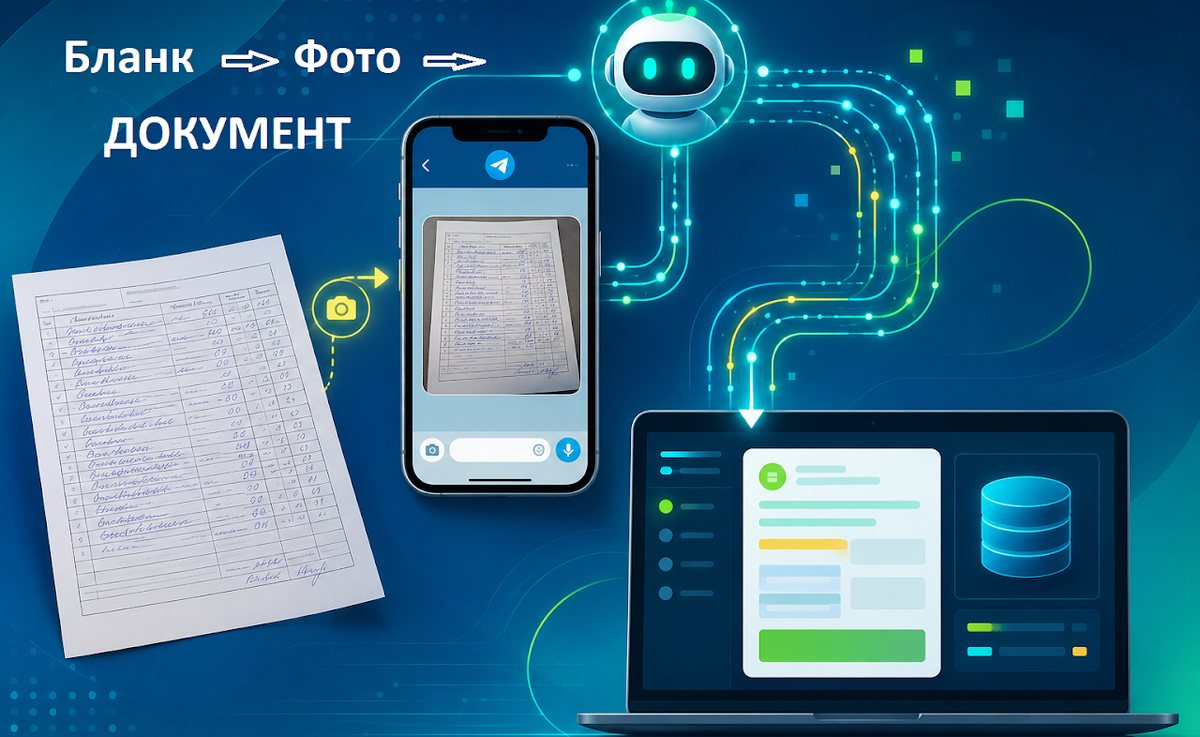
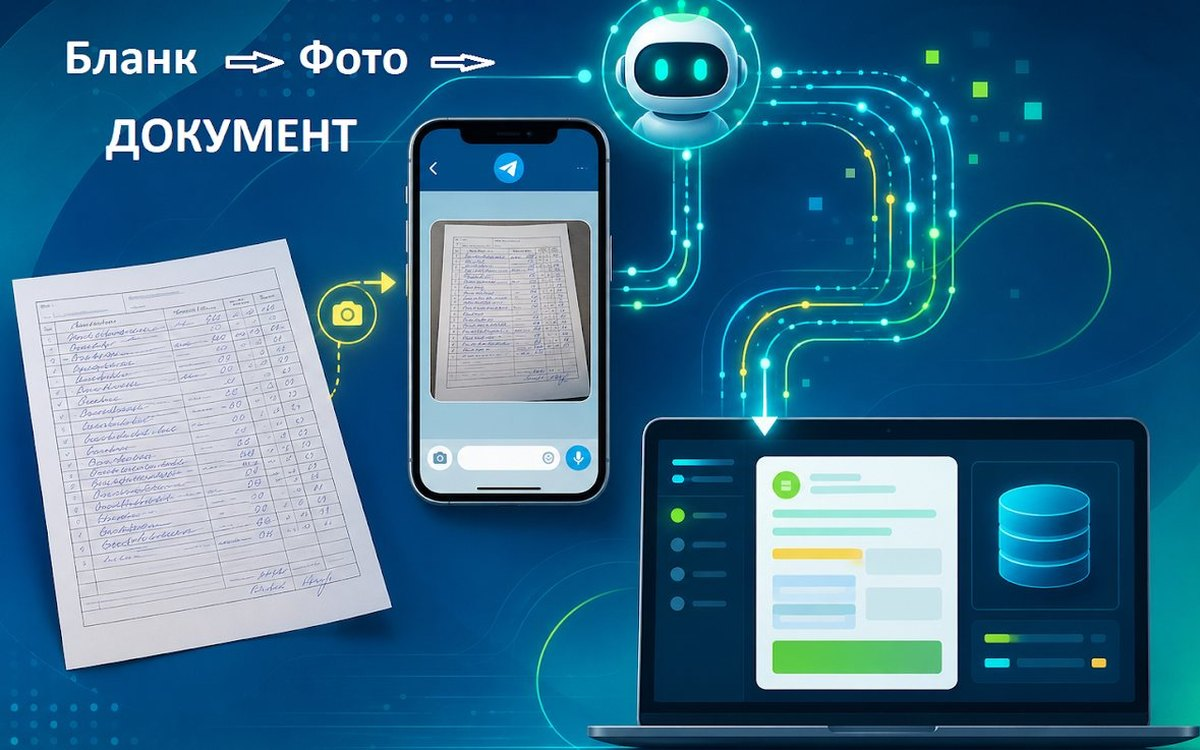
Кейси: один шлях у кейс і однакові ілюстрації 16:10
На сторінці кейсів було два конкуруючі переходи: кнопка «Повна історія
кейсу» в кінці текстової колонки і розкривачка «Детальніше про кейс» під
усією сіткою, на повну ширину. Під розкривачкою не було нічого свого —
усе це вже є на сторінках кейсів, тільки докладніше. До того ж summary
і .btn--sm мають однакову пігулкову форму, тож око читало їх як дві
рівнозначні кнопки; самі розкривачки були в кейсах 01, 02, 04, 05 і не
було в 03, а ховали то один абзац, то два екрани тексту.

Текст:
- прибрано всі details.more зі сторінки, разом із мертвими після цього
  правилами .case > details.more і .more--cols
- усі п'ять анонсів за одним каркасом: задача двома реченнями
  (.case__lede), три рядки результату (.case__gains), підсумковий факт
  (.case__result) і одна кнопка «Читати кейс»
- заголовки кейсів такі самі, як на плитках головної: зник різнобій
  «Функціонал "..."» і три різні назви одного кейсу по сайту
- факти взято з розділів «Що це дало компанії» на сторінках кейсів;
  цифра стоїть там, де вона справді є — понад 300 актів на місяць у 01

Ілюстрації:
- усі чотири приведені до 1200x750; .case__media тримає aspect-ratio 16/10
  з object-fit: cover — зараз це нічого не обрізає, лише страхує майбутні
  картинки; слайдер кейсу 05 із правила виключений
- 01 (1200x800) — зрізано по 25 px згори і знизу
- 03 (1200x737) — знято 21 px справа, де порожнє поле
- 04 (1200x957) — заголовок і щит не різали, а доточили поля з боків
[…]

diff --git a/cases.html b/cases.html
@@ -103,40 +103,24 @@
           <figure class="case__media">
             <picture>
               <source srcset="assets/img/case-1.webp" type="image/webp">
-              <img src="assets/img/case-1.jpg" width="1200" height="800" alt="VLASPRO AI-агент: акт звірки автоматично — без дзвінків, без очікування, без участі персоналу.">
+              <img src="assets/img/case-1.jpg" width="1200" height="750" alt="VLASPRO AI-агент: акт звірки автоматично — без дзвінків, без очікування, без участі персоналу.">
             </picture>
           </figure>
           <div class="case__body">
             <p class="case__badge">Кейс 01</p>
-            <h2>Функціонал "Акт звірки автоматично в Telegram"</h2>
-            <p>Клієнт звернувся із типовою задачею: бухгалтерія регулярно отримує запити від контрагентів на акти
-              звірки. Щоразу дзвінок або лист, ручне формування документа, надсилання. Десятки разів на тиждень,
-              більше 300 актів на місяць.</p>
-            <p>Ми автоматизували цей процес повністю, створивши Telegram-бота на базі власного програмного рішення,
-              який дозволяє клієнтам нашої компанії самостійно формувати та отримувати “Акти звірки”.</p>
-            <p><a class="btn btn--sm" href="/akt-zvirky-telegram">Повна історія кейсу</a></p>
-
+            <h2>Акт звірки автоматично в Telegram</h2>
+            <p class="case__lede">Бухгалтерія десятки разів на тиждень формувала акти звірки руками: на кожен
+              запит контрагента — дзвінок або лист, пошук, документ, надсилання. Telegram-бот, підключений
+              до облікової бази, дає контрагенту зробити це самому: обрати період і одразу отримати PDF.</p>
+            <ul class="case__gains">
+              <li><b>Бухгалтерія.</b> Операція зникла з робочого дня — разом із перериваннями на неї.</li>
+              <li><b>Контрагент.</b> Акт доступний цілодобово й без посередника, зокрема у вихідні.</li>
+              <li><b>Документи.</b> Немає помилок ручного введення: не той період чи не той контрагент.</li>
+            </ul>
+            <p class="case__result"><b>Понад 300</b> ручних формувань акта на місяць більше не відбуваються взагалі.</p>
+            <p><a class="btn" href="/akt-zvirky-telegram">Читати кейс</a></p>
           </div>
         </div>
-
-        <details class="more more--cols">
-          <summary>Детальніше про кейс</summary>
-          <div class="more__body">
-            <p>Цей бот ми інтегрували з обліковою системою компанії, і тепер контрагенти нашої фірми самостійно
-              обирають потрібний період та миттєво отримують акти звірки у PDF-форматі. Без дзвінків.
-              Без очікування. Без участі персоналу.</p>
-            <p>Результат для компанії:</p>
-            <ul>
-              <li>Економія часу бухгалтера та зменшення кількості ручних операцій;</li>
-              <li>Підвищення рівня сервісу для клієнтів;</li>
-              <li>Зниження людського фактору та помилок при формуванні документів;</li>
-              <li>Зручність та швидкість документообігу;</li>
-              <li>Доступність 24/7</li>
-            </ul>
-            <p>Цей кейс - приклад того, як <strong>AI-агенти можуть трансформувати бізнес-процеси
-              підприємства</strong>, зробити їх більш ефективними та клієнтоорієнтованими.</p>
-          </div>
-        </details>
 
         <!-- ---- демо-бот: на всю ширину, під колонками кейсу ---- -->
         <div class="trybot trybot--wide">
@@ -166,33 +150,24 @@
           <figure class="case__media">
             <picture>
               <source srcset="assets/img/case-2.webp" type="image/webp">
-              <img src="assets/img/case-2.jpg" width="1021" height="1024" alt="Погодження відповідальними особами: заявка на платіж у Telegram з кнопками «Погодити» або «Відхилити».">
+              <img src="assets/img/case-2.jpg" width="1200" height="750" loading="lazy" alt="Погодження відповідальними особами: заявка на платіж у Telegram з кнопками «Погодити» або «Відхилити».">
             </picture>
           </figure>
           <div class="case__body">
             <p class="case__badge">Кейс 02</p>
-            <h2>Функціонал "Погодження відповідальними особами" за допомогою Telegram-бота</h2>
-            <p>У сучасному бізнесі часто виникає потреба підтвердження керівником ключових процесів — це можуть бути
-              заявки на платежі, заявки на відвантаження чи будь‑які інші дії, що потребують погодження.</p>
-            <p>Telegram‑бот автоматизує цей етап:</p>
-            <ul>
-              <li>Керівник отримує у боті сповіщення з коротким описом запиту</li>
-              <li>За потреби додається файл із повними даними</li>
-              <li>У повідомленні є кнопки Погодити або Відхилити</li>
+            <h2>Погодження відповідальними особами</h2>
+            <p class="case__lede">Заявка на платіж, відвантаження в борг чи знижка понад норму стоїть, поки
+              керівник не сяде за комп&rsquo;ютер, а усне «так» ніде не фіксується. Бот приносить запит у чат
+              із кнопками «Погодити» і «Відхилити» — натискання одразу записує рішення в облікову систему.</p>
+            <ul class="case__gains">
+              <li><b>Швидкість.</b> Відповідь можлива з дороги, зі зустрічі, з іншого міста.</li>
+              <li><b>Облік.</b> Кожне погодження має автора й час, і його видно через місяць.</li>
+              <li><b>Процес.</b> Виконавець перестає бути кур&rsquo;єром і ходити нагадувати про себе.</li>
             </ul>
-            <p><a class="btn btn--sm" href="/pohodzhennya-telegram">Повна історія кейсу</a></p>
-
+            <p class="case__result">Запит іде <b>одразу всім</b>, хто має право вирішувати, — чекати на конкретну людину не потрібно.</p>
+            <p><a class="btn" href="/pohodzhennya-telegram">Читати кейс</a></p>
           </div>
         </div>
-
-        <details class="more">
-          <summary>Детальніше про кейс</summary>
-          <div class="more__body">
-            <p>Запит може надсилатися одразу кільком відповідальним особам. Кожен із них має можливість прийняти
-              рішення. Результат погодження автоматично фіксується в обліковій системі, після чого бізнес‑процес
-              переходить на наступний етап роботи.</p>
-          </div>
-        </details>
       </article>
 
       <!-- ================= КЕЙС 3 ================= -->
@@ -201,23 +176,23 @@
           <figure class="case__media">
             <picture>
               <source srcset="assets/img/case-3.webp" type="image/webp">
-              <img src="assets/img/case-3.jpg" width="1200" height="737" alt="Рукописний бланк — фото у Telegram — готовий документ в обліковій базі.">
+              <img src="assets/img/case-3.jpg" width="1200" height="750" loading="lazy" alt="Рукописний бланк — фото у Telegram — готовий документ в обліковій базі.">
             </picture>
           </figure>
           <div class="case__body">
             <p class="case__badge">Кейс 03</p>
-            <h2>Функціонал "Розпізнавання рукописних бланків"</h2>
-            <p>У роботі часто трапляється, що працівники фіксують оперативні дані вручну — на паперових бланках.</p>
-            <p>Тепер цей процес можна автоматизувати:</p>
-            <ul>
-              <li>Працівник фіксує оперативні дані на паперових бланках вручну, фотографує їх і надсилає
-                у Telegram‑бот;</li>
-              <li>За допомогою моделі штучного інтелекту відбувається <strong>розпізнавання та структурування
-                даних</strong> із зображення бланку;</li>
-              <li>На основі отриманих даних у <strong>обліковій базі автоматично створюється відповідний
-                документ</strong></li>
+            <h2>Розпізнавання рукописних бланків</h2>
+            <p class="case__lede">Оперативні дані народжуються на папері, а потім ті самі цифри хтось набирає
+              в базу вдруге — із затримкою в день-два і помилками переносу. Працівник фотографує бланк
+              у Telegram, модель розпізнає й розкладає дані по полях, а в обліковій базі створюється
+              готовий документ.</p>
+            <ul class="case__gains">
+              <li><b>Офіс.</b> Другий набір тих самих цифр зник — лишилася перевірка винятків.</li>
+              <li><b>Швидкість.</b> Дані в базі того ж дня, а не після поїздки в офіс.</li>
+              <li><b>Якість.</b> Фото оригіналу зберігається разом із документом і звіряється за секунди.</li>
             </ul>
-            <p><a class="btn btn--sm" href="/rozpiznavannya-blankiv">Повна історія кейсу</a></p>
+            <p class="case__result">Працівника <b>нічого не треба перевчати</b>: звичний бланк лишається, змінюється тільки те, що з ним відбувається далі.</p>
+            <p><a class="btn" href="/rozpiznavannya-blankiv">Читати кейс</a></p>
           </div>
         </div>
       </article>
@@ -228,54 +203,25 @@
           <figure class="case__media">
             <picture>
               <source srcset="assets/img/case-4.webp" type="image/webp">
-              <img src="assets/img/case-4.jpg" width="1200" height="957" alt="Модуль «Реєстрація змін»: історія змін документів під контролем.">
+              <img src="assets/img/case-4.jpg" width="1200" height="750" loading="lazy" alt="Модуль «Реєстрація змін»: історія змін документів під контролем.">
             </picture>
           </figure>
           <div class="case__body">
             <p class="case__badge">Кейс 04</p>
             <h2>Модуль «Реєстрація змін»</h2>
-            <p><strong>Модуль «Реєстрація змін» - потужний інструмент для контролю, безпеки та аналізу роботи
-              в обліковій системі.</strong></p>
-            <p>Модуль «Реєстрація змін» призначений для фіксації змін у документах і довідниках з можливістю
-              подальшого детального аналізу. На відміну від стандартних механізмів, які зберігають лише поточний
-              стан реквізитів документа, модуль реєструє виключно змінені дані. Це дозволяє отримувати повну історію
-              змін та ефективно аналізувати дії користувачів.</p>
-            <p><a class="btn btn--sm" href="/reyestratsiya-zmin">Повна історія кейсу</a></p>
-
+            <p class="case__lede">Облікова система зберігає поточний стан документа, тож на питання «що саме
+              змінилося і хто це зробив» відповіді в ній немає. Модуль реєструє не копію документа,
+              а виключно змінені реквізити — звідси повна історія правок і предметний аналіз дій
+              користувачів.</p>
+            <ul class="case__gains">
+              <li><b>Прозорість.</b> Видно, хто, коли і що саме змінив та які документи друкував.</li>
+              <li><b>Безпека.</b> Кожна правка лишає слід, тому тиха зміна перестає бути безкарною.</li>
+              <li><b>Аналітика.</b> Реальна активність співробітників і робочі піки замість припущень.</li>
+            </ul>
+            <p class="case__result">Суперечка вирішується фактом: <b>значення до, значення після, автор і час</b>.</p>
+            <p><a class="btn" href="/reyestratsiya-zmin">Читати кейс</a></p>
           </div>
         </div>
-
-        <details class="more more--cols">
-          <summary>Можливості та переваги</summary>
-          <div class="more__body">
-            <h3>Основні можливості</h3>
-            <ul>
-              <li>Реєстрація змін у документах та довідниках;</li>
-              <li>Збереження лише змінених реквізитів для максимально точного аналізу;</li>
-              <li>Формування звітів щодо внесених змін;</li>
-              <li>Контроль формування друкованих форм;</li>
-              <li>Виявлення підозрілих або нетипових дій користувачів;</li>
-              <li>Аналіз активності співробітників за будь-який період;</li>
-              <li>Визначення рівня завантаженості персоналу та робочих піків;</li>
-              <li>Підвищення рівня безпеки та контролю бізнес-процесів.</li>
-            </ul>
-
-            <h3>Переваги використання</h3>
-            <p>Модуль надає керівникам та адміністраторам системи повну прозорість роботи користувачів.
-              Ви можете легко відстежити, хто, коли та які зміни вносив, які документи друкував та які операції
-              виконував у системі.</p>
-            <p>Завдяки розвиненим засобам аналізу модуль допомагає:</p>
-            <ul>
-              <li>підвищити дисципліну роботи персоналу;</li>
-              <li>мінімізувати ризики несанкціонованих змін;</li>
-              <li>контролювати критично важливі дані;</li>
-              <li>проводити аудит дій користувачів;</li>
-              <li>отримувати об'єктивну картину використання облікової системи.</li>
-            </ul>
-            <p><strong>«Реєстрація змін» — це комплексне рішення для аудиту, контролю та захисту даних у вашій
-              обліковій системі.</strong></p>
-          </div>
-        </details>
       </article>
 
       <!-- ================= КЕЙС 5 ================= -->
@@ -320,28 +266,21 @@
           </div>
           <div class="case__body">
             <p class="case__badge">Кейс 05</p>
-            <h2>Модуль Інтеграція 1С + Telegram/WhatsApp</h2>
-            <p><strong>Бізнес під контролем - без зайвих зусиль</strong></p>
-            <p><strong>Інтеграційний модуль 1С/BAS + Telegram/WhatsApp:</strong></p>
-            <ul>
-              <li>Миттєві сповіщення про критичні події та стан інформаційної системи;</li>
-              <li>Звіти, графіки та Excel прямо в чат - 24/7;</li>
-              <li>Персоналізація за ролями: керівники, менеджери, бухгалтерія;</li>
-              <li>Розсилка звітів за графіком і подіями, без складних програм;</li>
-              <li>Швидке впровадження, мінімум витрат, максимум ефекту.</li>
+            <h2>Інтеграція 1С + Telegram/WhatsApp</h2>
+            <p class="case__lede">Дані в базі є, але по них треба йти самому: відкрити систему, згадати потрібний
+              звіт, виставити відбори — тож про проблему керівник дізнається, коли вона вже сталася. Модуль
+              зв&rsquo;язує 1С або BAS із Telegram і WhatsApp: сповіщення, звіти, графіки та Excel приходять
+              у чат самі, кожному за його роллю.</p>
+            <ul class="case__gains">
+              <li><b>Керівник.</b> Дебіторка, запаси, план-факт і статуси замовлень приходять самі.</li>
+              <li><b>Реакція.</b> Про критичну подію відомо тоді, коли ще є час щось змінити.</li>
+              <li><b>Витрати.</b> Без нових ліцензій: отримувачі не заходять в облікову систему.</li>
             </ul>
-            <p><a class="btn btn--sm" href="/integratsiya-1c-telegram">Повна історія кейсу</a></p>
-
+            <p class="case__result">Найшвидший старт із усіх сценаріїв — <b>облікові процеси не переписуються</b>, модуль лише забирає дані й доставляє.</p>
+            <p><a class="btn" href="/integratsiya-1c-telegram">Читати кейс</a></p>
           </div>
         </div>
 
-        <details class="more">
-          <summary>Детальніше про кейс</summary>
-          <div class="more__body">
-            <p>Контролюйте дебіторку, запаси, план-факт і статуси замовлень у реальному часі. Менше ручної
-              роботи&nbsp; більше рішень тут і зараз.</p>
-          </div>
-        </details>
       </article>
 
     </div>

diff --git a/assets/css/style.css b/assets/css/style.css
@@ -393,15 +393,29 @@ li::marker { color: var(--accent); }
   .case--flip .case__media { order: 2; }
 }
 
+/* Ілюстрації кейсів намальовані в різний час і мали чотири різні пропорції —
+   від 1:1 до 16:9, через що колонки кейсів виходили різної висоти. Рамка
+   задає одну пропорцію 16:10 для всіх; самі файли теж приведені до 1200x750,
+   тож object-fit нічого не обрізає, а лише страхує майбутні картинки. */
 .case__media {
   position: sticky; top: 90px;
+  aspect-ratio: 16 / 10;
   border-radius: var(--radius); overflow: hidden;
   background: var(--card); border: 1px solid var(--line); box-shadow: var(--shadow);
+}
+.case__media picture { display: block; height: 100%; }
+.case__media > img,
+.case__media picture > img {
+  display: block; width: 100%; height: 100%;
+  object-fit: cover; object-position: var(--img-pos, center);
 }
 @media (max-width: 899px) { .case__media { position: static; } }
 
 /* the slider brings its own frame */
-.case__media--plain { position: static; border: 0; background: none; box-shadow: none; overflow: visible; }
+.case__media--plain {
+  position: static; aspect-ratio: auto;
+  border: 0; background: none; box-shadow: none; overflow: visible;
+}
 
 .case__badge {
   display: inline-flex; align-items: center; gap: .5rem;
@@ -416,6 +430,32 @@ li::marker { color: var(--accent); }
   font-family: var(--sans); font-weight: 700; color: var(--ink);
   letter-spacing: .01em;
 }
+
+/* --- анонс кейсу: єдиний каркас для всіх п’яти --------------------------- */
+/* Задача двома реченнями, три рядки результату, один підсумковий факт
+   і одна кнопка. Раніше кожен кейс був оформлений по-своєму — від суцільної
+   прози до самих булітів, — і сторінка читалася як набір різних сторінок. */
+.case__lede { margin: 0 0 1.1rem; }
+
+.case__gains { list-style: none; padding: 0; margin: 0 0 1.2rem; display: grid; gap: .55rem; }
+.case__gains li { position: relative; padding-left: 1.6rem; font-size: .97rem; color: var(--ink-2); }
+.case__gains li::before {
+  content: ''; position: absolute; left: .15rem; top: .42em;
+  width: .62rem; height: .34rem;
+  border-left: 2px solid var(--accent); border-bottom: 2px solid var(--accent);
+  transform: rotate(-45deg);
+}
+.case__gains b { color: var(--ink); font-weight: 700; }
+
+/* Підсумковий факт — світла панель із бічною рискою, а не темна плашка:
+   він має завершувати анонс, а не перебивати собою картинку кейсу. */
+.case__result {
+  margin: 0 0 1.4rem; padding: .8rem 1.1rem;
+  background: var(--accent-bg); border-left: 3px solid var(--accent);
+  border-radius: 0 10px 10px 0;
+  font-size: .97rem; color: var(--ink-2);
+}
+.case__result b { color: var(--accent-2); }
 
 /* expandable detail */
 details.more { margin-top: 1.2rem; border-top: 1px dashed var(--line); }
@@ -436,44 +476,6 @@ details.more[open] > summary::after { transform: rotate(-135deg) translateY(-1px
 details.more > summary:hover { background: #d5ebee; }
 details.more[open] > summary { margin-bottom: .4rem; }
 .more__body { padding-top: .6rem; }
-
-/* --- розгорнутий кейс на всю ширину -------------------------------------- */
-/* Блок винесений із колонки кейсу і стоїть під сіткою, тож текст займає
-   всю ширину статті. Щоб рядки не розтягувалися на 1000+ px і не втрачали
-   читабельність, довгі кейси (.more--cols) розкладаються у дві колонки. */
-.case > details.more {
-  margin-top: clamp(1.4rem, 3.5vw, 2.2rem);
-  border-top: 1px dashed var(--line);
-}
-
-.case > details.more > summary { margin-top: 1.2rem; }
-
-.case > details.more .more__body {
-  margin-top: .9rem; padding: clamp(1.2rem, 3vw, 1.9rem) clamp(1.2rem, 3.5vw, 2.1rem);
-  background: var(--card);
-  border: 1px solid var(--line);
-  border-radius: var(--radius);
-  box-shadow: var(--shadow);
-}
-
-.case > details.more .more__body > :first-child { margin-top: 0; }
-.case > details.more .more__body > :last-child { margin-bottom: 0; }
-
-@media (min-width: 900px) {
-  .more--cols .more__body {
-    column-count: 2;
-    column-gap: clamp(2rem, 4.5vw, 3.4rem);
-    column-rule: 1px solid var(--line);
-  }
-  /* Абзац не рвемо, а довгий список хай перетікає між колонками — інакше
-     колонки виходять різної висоти (у кейсі 01 було 60 % заповнення проти
-     100 % зараз). Окремий пункт списку при цьому лишається цілим. */
-  .more--cols .more__body p { break-inside: avoid; }
-  .more--cols .more__body li { break-inside: avoid; }
-  .more--cols .more__body h3 { break-after: avoid; margin-top: 0; }
-  .more--cols .more__body h3 + ul,
-  .more--cols .more__body h3 + p { margin-top: .5em; }
-}
 
 /* --- блок демо-бота ------------------------------------------------------ */
 /* Блок живе і на всю ширину сторінки, і всередині вузької колонки кейсу,

diff --git a/pohodzhennya-telegram.html b/pohodzhennya-telegram.html
@@ -187,7 +187,7 @@
       <figure class="case__media" style="margin-top: 1.6rem;">
         <picture>
           <source srcset="assets/img/case-2.webp" type="image/webp">
-          <img src="assets/img/case-2.jpg" width="1021" height="1024" loading="lazy"
+          <img src="assets/img/case-2.jpg" width="1200" height="750" loading="lazy"
                alt="Заявка на платіж у Telegram з кнопками «Погодити» та «Відхилити» під повідомленням бота.">
         </picture>
       </figure>

diff --git a/reyestratsiya-zmin.html b/reyestratsiya-zmin.html
@@ -186,7 +186,7 @@
       <figure class="case__media" style="margin-top: 1.6rem;">
         <picture>
           <source srcset="assets/img/case-4.webp" type="image/webp">
-          <img src="assets/img/case-4.jpg" width="1200" height="957" loading="lazy"
+          <img src="assets/img/case-4.jpg" width="1200" height="750" loading="lazy"
                alt="Модуль «Реєстрація змін»: історія правок документів і довідників під контролем.">
         </picture>
       </figure>

diff --git a/akt-zvirky-telegram.html b/akt-zvirky-telegram.html
@@ -186,7 +186,7 @@
       <figure class="case__media" style="margin-top: 1.6rem;">
         <picture>
           <source srcset="assets/img/case-1.webp" type="image/webp">
-          <img src="assets/img/case-1.jpg" width="1200" height="800" loading="lazy"
+          <img src="assets/img/case-1.jpg" width="1200" height="750" loading="lazy"
                alt="Акт звірки у Telegram: контрагент отримує PDF-документ у чаті без участі бухгалтера.">
         </picture>
       </figure>

diff --git a/rozpiznavannya-blankiv.html b/rozpiznavannya-blankiv.html
@@ -185,7 +185,7 @@
       <figure class="case__media" style="margin-top: 1.6rem;">
         <picture>
           <source srcset="assets/img/case-3.webp" type="image/webp">
-          <img src="assets/img/case-3.jpg" width="1200" height="737" loading="lazy"
+          <img src="assets/img/case-3.jpg" width="1200" height="750" loading="lazy"
                alt="Рукописний бланк, його фото в Telegram і готовий документ в обліковій базі.">
         </picture>
       </figure>
